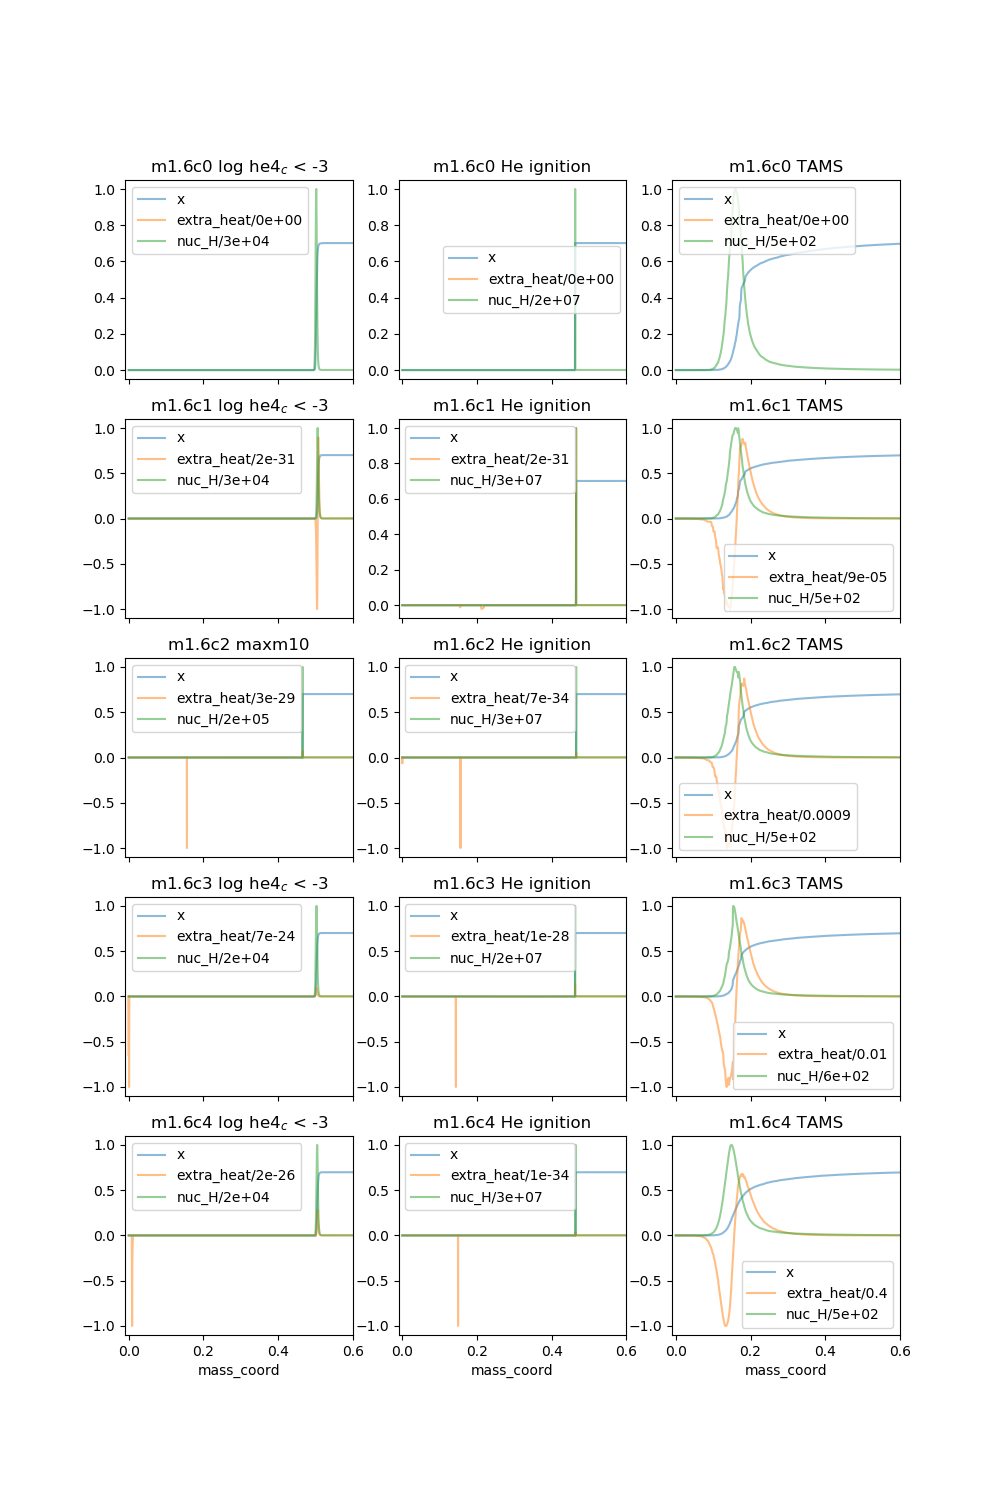
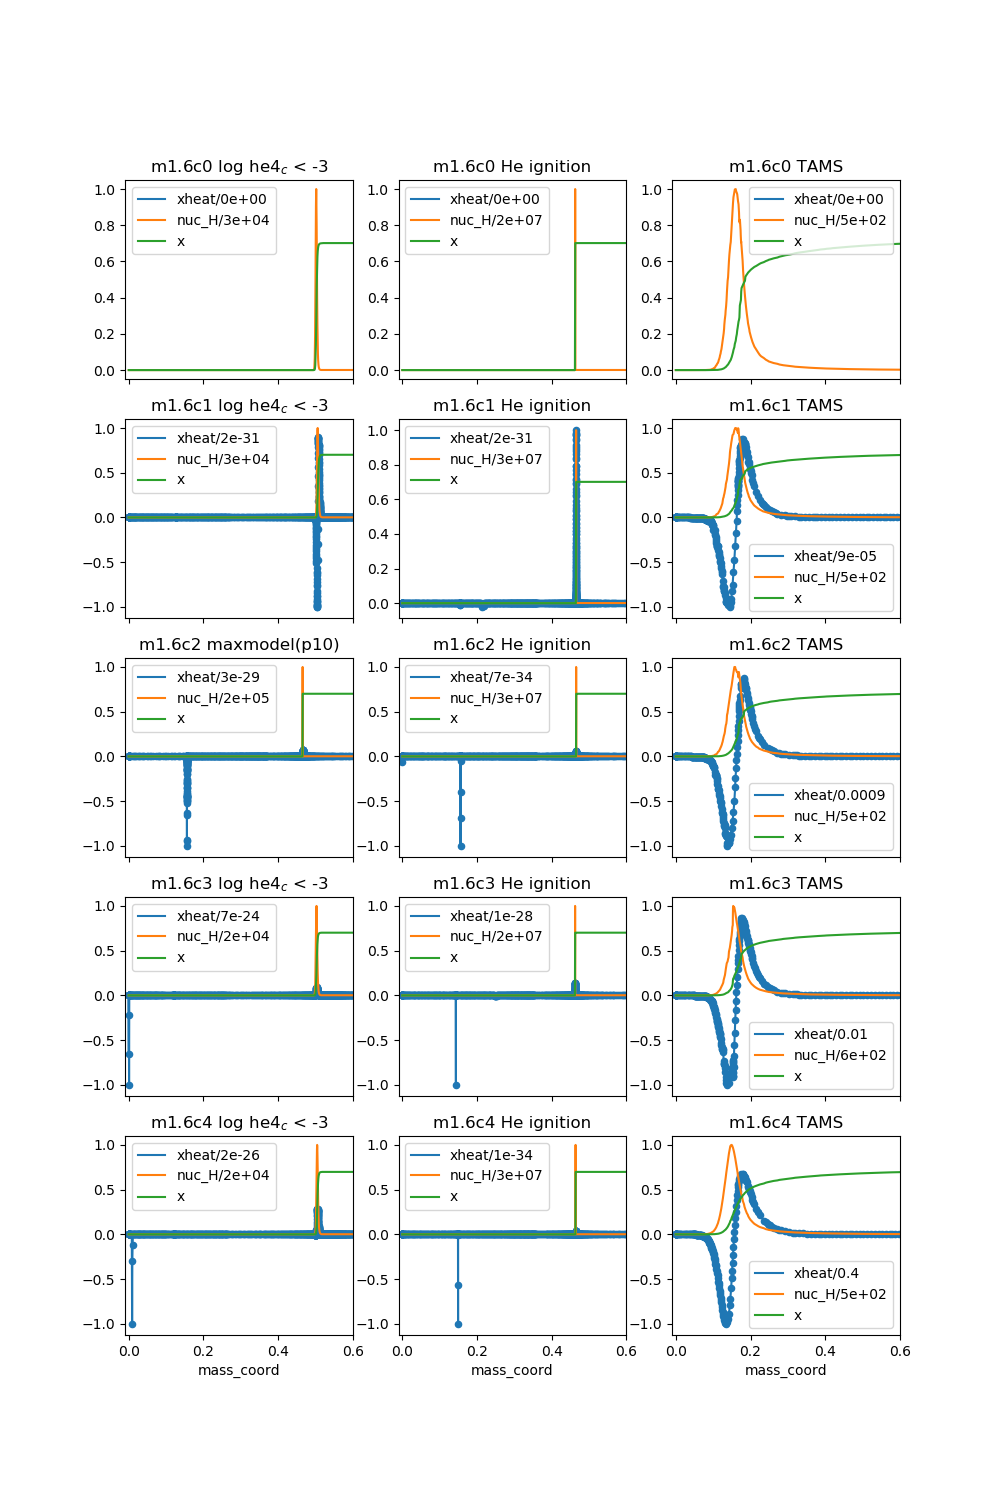
updates xheat plot

diff --git a/_defDM/fncs.py b/_defDM/fncs.py
@@ -662,18 +662,22 @@ def plot_profiles(pdf,ax):
     """
     p = pdf.copy()
     p['nuc_H'] = p.pp + p.cno
+    p.rename(columns={'extra_heat':'xheat'}, inplace=True)
 
-    cols = ['x', ]#'y',]
-    for c in [  'extra_heat',
+    cols = []
+    for c in [  'xheat', 'nuc_H',
                 # 'eps_nuc',
-                'nuc_H']:
+                ]:
         mx = p[c].abs().max()
         nam = '/'.join([c,f'{mx:.1}'])
         cols.append(nam)
         p[nam] = p[c]/mx
 
-    args = {'ax':ax, 'alpha':0.5}
+    cols.append('x')
+    args = {'ax':ax, 'alpha':1}
     p.plot(x='mass_coord', y=cols, **args)
+    p.plot(x='mass_coord', y=cols[0], kind='scatter', ax=ax)
+    ax.set_ylabel('')
 
     return None
 
@@ -687,7 +691,7 @@ def plot_profiles_all(pdf):
     for a, (k, p) in enumerate(gb):
         ax = axs[a]
         plot_profiles(p,ax)
-        eep = priority_dict[k[2]] if k[2] in priority_dict.keys() else f'maxm{k[2]}'
+        eep = priority_dict[k[2]] if k[2] in priority_dict.keys() else f'maxmodel(p{k[2]})'
         ax.set_title(f'm{k[1]}c{k[0]} {eep}')
     ax.set_xlim(-0.01,0.6)
 

diff --git a/_defDM/main.md b/_defDM/main.md
@@ -214,6 +214,10 @@ ppms = load_profiles(pipms,[mass],cboosts,priorities,max_mod=True)
 plot_profiles_all(ppms)
 plt.savefig(f'plots/xheat_m{mass}.png')
 
+# ppms50 = load_profiles(pipms,[mass],[2],[50])
+# plt.figure()
+# plot_profiles(ppms50,plt.gca())
+# plt.savefig('tp/xheat50.png')
 ```
 
 <img src="plots/xheat_m1.6.png" alt="plots/xheat_m1.6" width=""/>
